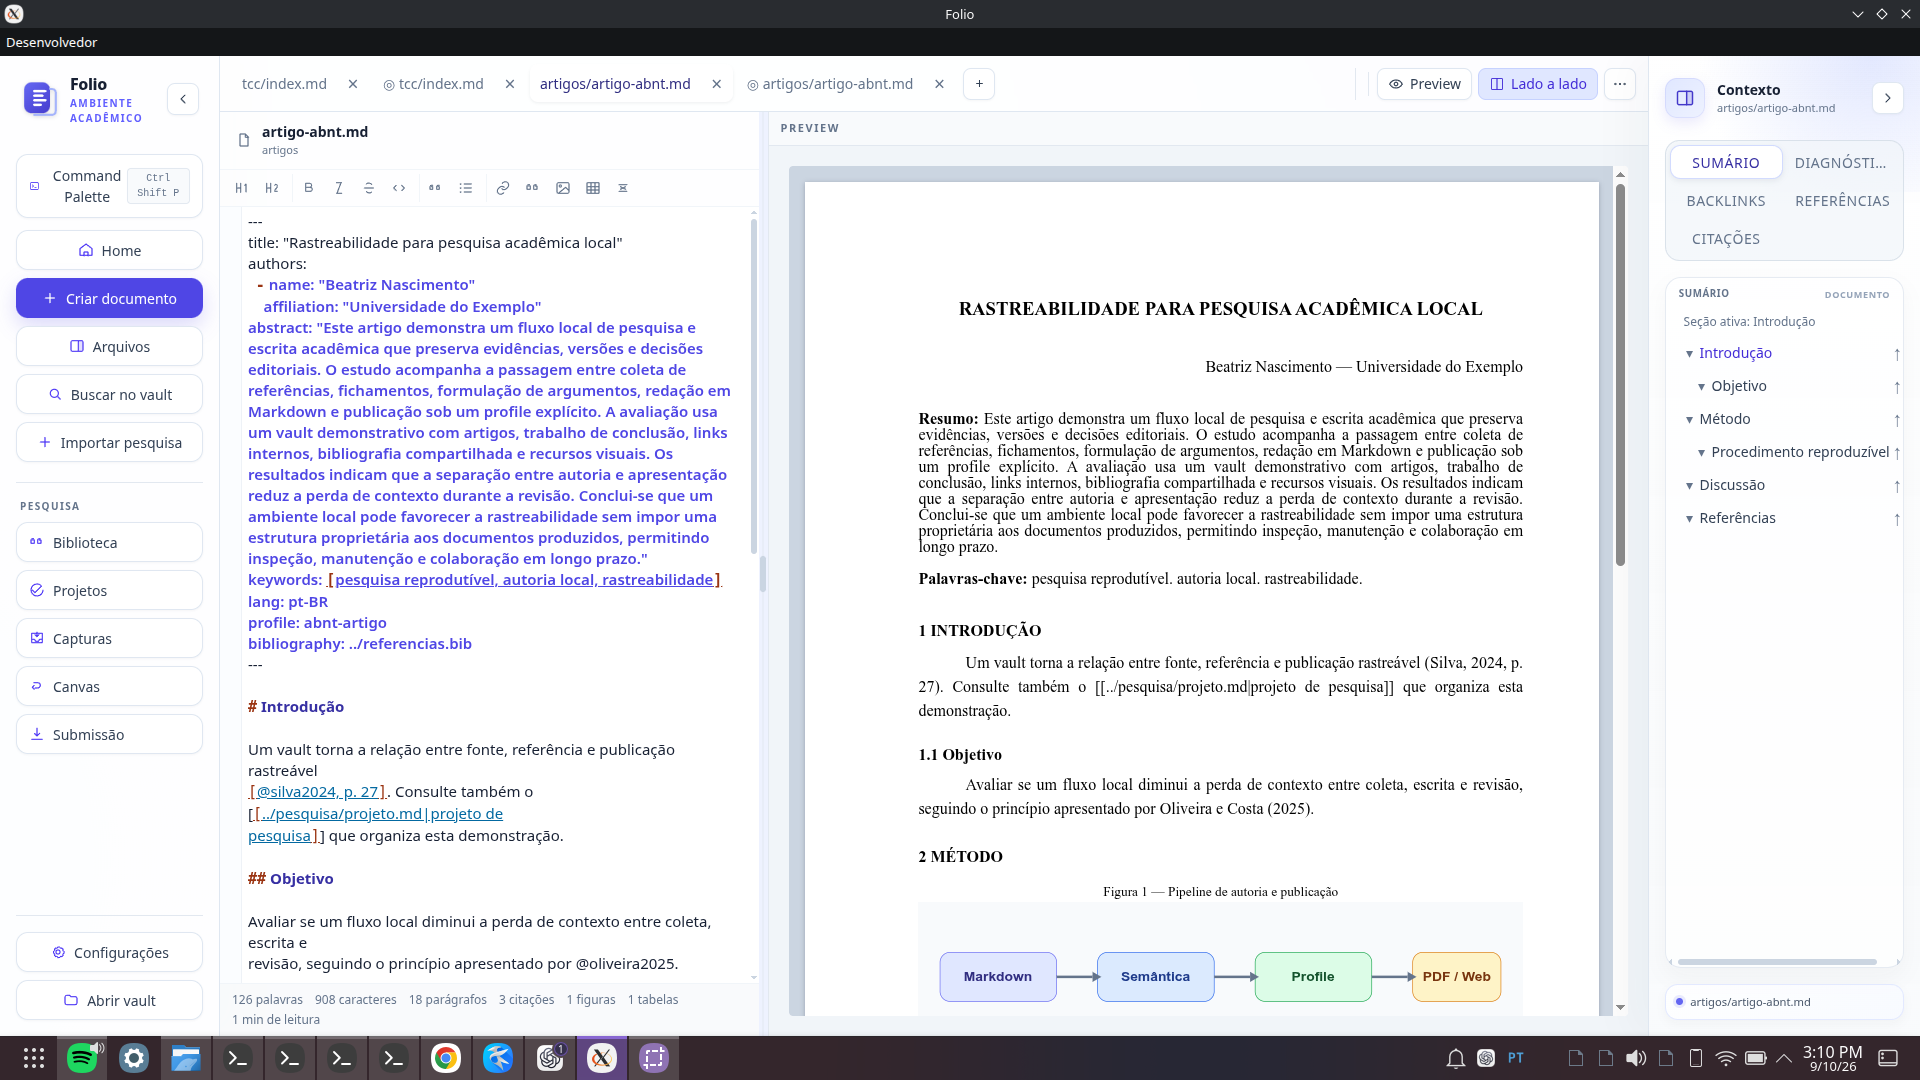
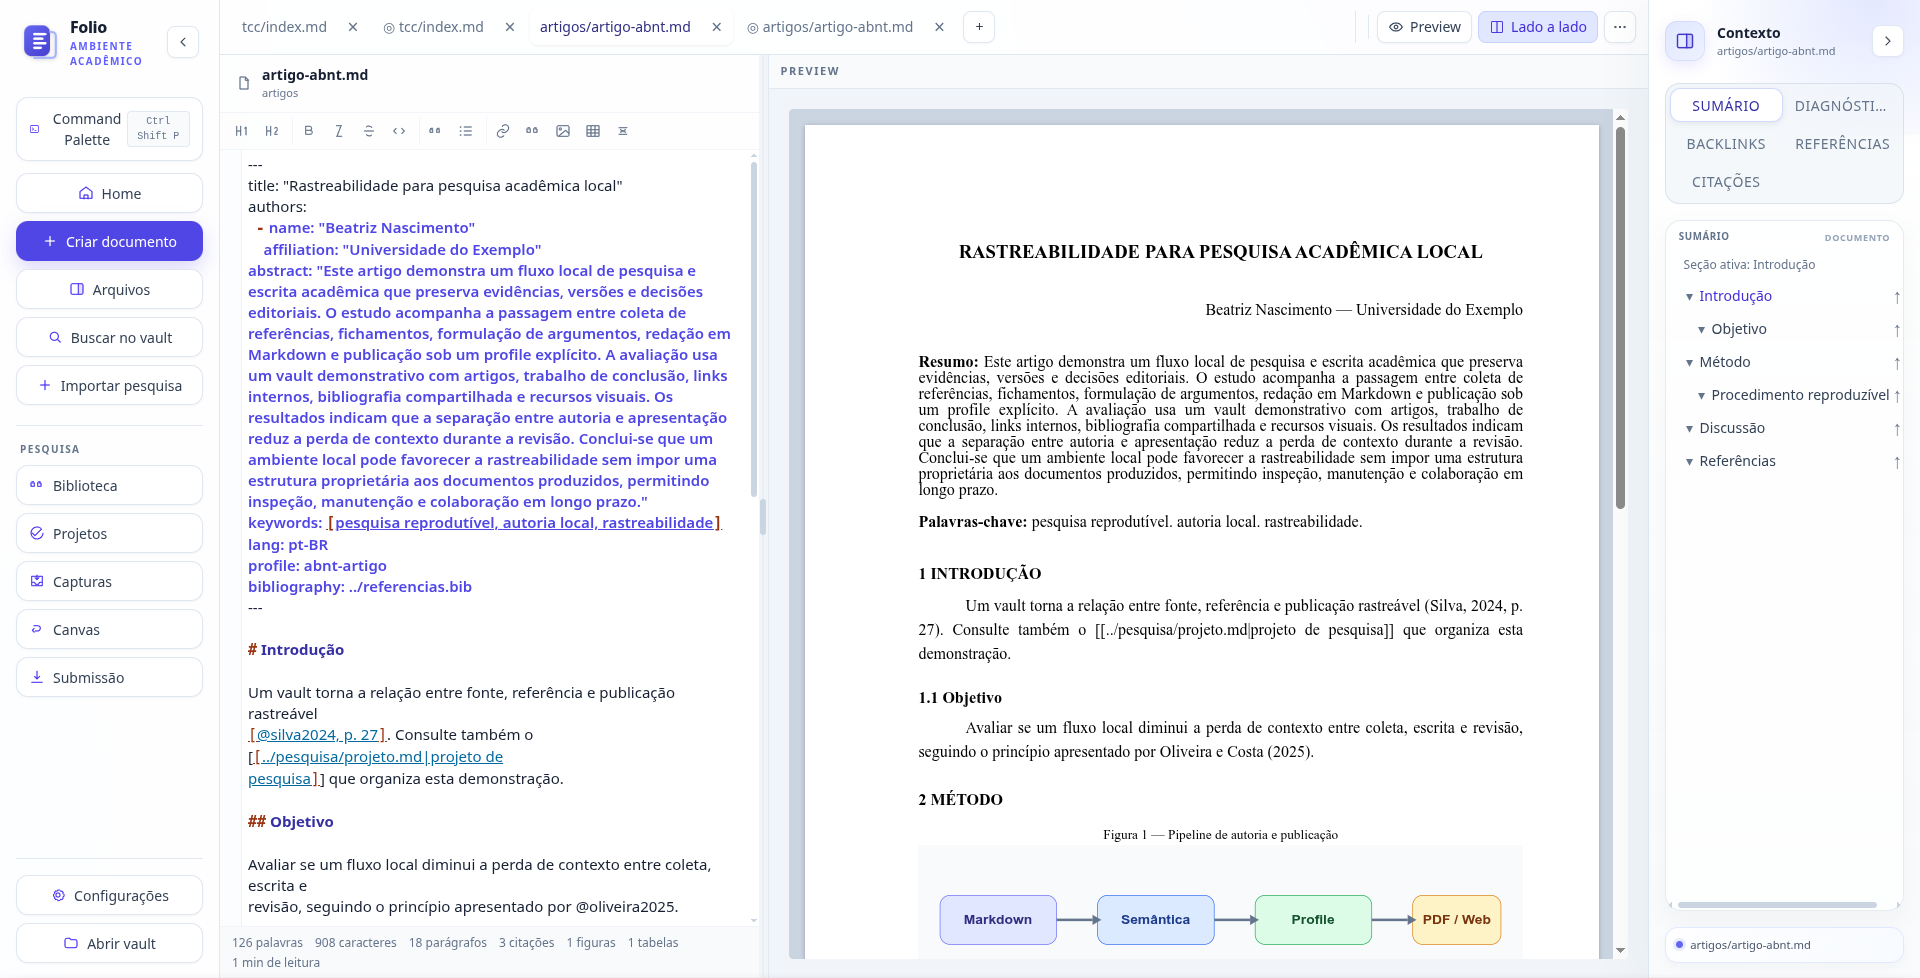
First commit

diff --git a/index.html b/index.html
@@ -1,30 +1,21 @@
 <!doctype html>
 <html lang="pt-BR">
-  <head>
-    <meta charset="UTF-8" />
-    <meta name="viewport" content="width=device-width, initial-scale=1.0" />
-    <meta name="description" content="Folio é o espaço local para escrever, pesquisar e publicar trabalhos acadêmicos." />
-    <title>Folio — pesquisa acadêmica, do rascunho à entrega</title>
-    <style>
-      :root { color-scheme: dark; font-family: Inter, ui-sans-serif, system-ui, sans-serif; }
-      * { box-sizing: border-box; } body { margin: 0; color: #e2e8f0; background: #0f172a; }
-      main { max-width: 1120px; margin: auto; padding: 28px 24px 72px; } nav { display:flex; justify-content:space-between; align-items:center; }
-      .brand { font-weight:800; letter-spacing:-.05em; font-size:1.45rem; } .brand span { color:#a5b4fc; }
-      a { color: inherit; } .github { border:1px solid #475569; border-radius:9px; padding:9px 13px; text-decoration:none; font-size:.9rem; }
-      .hero { padding:110px 0 80px; max-width:800px; background:radial-gradient(circle at 70% 40%,#3730a340,transparent 38%); }
-      .eyebrow { color:#a5b4fc; font-size:.76rem; font-weight:800; letter-spacing:.15em; } h1 { font-size:clamp(3rem,8vw,6.6rem); line-height:.93; letter-spacing:-.075em; margin:18px 0 25px; } p { color:#cbd5e1; line-height:1.65; font-size:1.1rem; }
-      .cta { display:inline-block; margin-top:20px; border-radius:10px; padding:13px 17px; color:#fff; background:#4f46e5; font-weight:700; text-decoration:none; }
-      .grid { display:grid; grid-template-columns:repeat(3,1fr); gap:16px; margin-top:35px; } article { border:1px solid #334155; border-radius:16px; padding:22px; background:#172033; } h2 { font-size:1.1rem; margin:0 0 8px; } article p { margin:0; font-size:.95rem; }
-      .showcase { margin-top:88px; } .showcase h2 { font-size:1.7rem; } .showcase > p { margin:8px 0 22px; }.screens { display:grid; grid-template-columns:repeat(2,minmax(0,1fr)); gap:18px; }.screen { margin:0; overflow:hidden; border:1px solid #334155; border-radius:16px; background:#172033; }.screen:first-child { grid-column:1 / -1; }.screen img { display:block; width:100%; height:auto; }.screen figcaption { padding:11px 14px; color:#94a3b8; font-size:.86rem; }
-      footer { margin-top:72px; padding-top:20px; border-top:1px solid #334155; color:#94a3b8; font-size:.85rem; }
-      @media (max-width:700px) { .hero{padding:80px 0 55px}.grid,.screens{grid-template-columns:1fr}.screen:first-child{grid-column:auto} }
-    </style>
-  </head>
-  <body><main>
-    <nav><div class="brand">fo<span>lio</span></div><a class="github" href="https://github.com/goldenluke/folio">Ver no GitHub</a></nav>
-    <section class="hero"><div class="eyebrow">PESQUISA ACADÊMICA, LOCAL-FIRST</div><h1>Do rascunho à entrega.</h1><p>Folio reúne escrita em Markdown, referências, anotações, revisão e publicação em um espaço de trabalho acadêmico que permanece seu.</p><a class="cta" href="https://github.com/goldenluke/folio">Explorar o projeto →</a></section>
-    <section class="grid"><article><h2>Escreva com contexto</h2><p>Editor, estrutura acadêmica, citações e diagnóstico trabalham no mesmo documento.</p></article><article><h2>Pesquise sem dispersão</h2><p>Biblioteca, PDFs, capturas, projetos e canvas organizam a investigação.</p></article><article><h2>Publique com confiança</h2><p>Prévia, validação ABNT, PDF, DOCX e fluxos de submissão fazem parte do percurso.</p></article></section>
-    <section class="showcase"><h2>O espaço de trabalho</h2><p>Um lugar para continuar escrevendo, organizar a pesquisa e revisar o que falta.</p><div class="screens"><figure class="screen"><img src="landing/Screenshot_20260910_150703.png" alt="Tela inicial do Folio" /><figcaption>Visão geral do workspace e continuidade do trabalho.</figcaption></figure><figure class="screen"><img src="landing/Screenshot_20260910_150752.png" alt="Biblioteca de referências do Folio" /><figcaption>Biblioteca, referências e pesquisa no mesmo workspace.</figcaption></figure><figure class="screen"><img src="landing/Screenshot_20260910_151014.png" alt="Editor acadêmico do Folio" /><figcaption>Editor com estrutura e ferramentas de escrita.</figcaption></figure></div></section>
-    <footer>Folio · software para produção acadêmica.</footer>
-  </main></body>
-</html>
+<head>
+  <meta charset="UTF-8" /><meta name="viewport" content="width=device-width, initial-scale=1.0" />
+  <meta name="description" content="Folio reúne pesquisa, escrita e publicação acadêmica em um workspace local-first." />
+  <title>Folio — pesquisa, escrita e publicação acadêmica</title>
+  <script src="https://cdn.tailwindcss.com"></script>
+  <script>tailwind.config={theme:{extend:{colors:{ink:'#10142a',indigo:{450:'#6254e7'}}}}}</script>
+</head>
+<body class="bg-slate-950 text-slate-100 antialiased selection:bg-indigo-400 selection:text-slate-950">
+  <div class="absolute inset-x-0 top-0 -z-10 h-[42rem] bg-[radial-gradient(circle_at_72%_10%,rgba(99,102,241,.36),transparent_27rem),radial-gradient(circle_at_15%_12%,rgba(56,189,248,.14),transparent_20rem)]"></div>
+  <main class="mx-auto max-w-7xl px-6 pb-24 lg:px-8">
+    <nav class="flex items-center justify-between py-7"><a class="flex items-center gap-2.5 text-2xl font-black tracking-[-.08em]" href="#top"><img src="apps/desktop/build/icons/folio.svg" alt="" class="h-8 w-8 rounded-lg" />fo<span class="text-indigo-300">lio</span></a><div class="hidden gap-6 text-sm text-slate-300 md:flex"><a href="#produto" class="hover:text-white">Produto</a><a href="#fluxo" class="hover:text-white">Fluxo</a><a href="#local" class="hover:text-white">Local-first</a></div><a href="https://github.com/goldenluke/folio" class="rounded-full border border-slate-700 px-4 py-2 text-sm font-semibold hover:border-indigo-300 hover:text-indigo-200">Ver no GitHub</a></nav>
+    <section id="top" class="grid items-center gap-12 py-20 lg:grid-cols-[1.08fr_.92fr] lg:py-28"><div><p class="text-xs font-bold tracking-[.22em] text-indigo-300">WORKSPACE ACADÊMICO LOCAL-FIRST</p><h1 class="mt-5 max-w-4xl text-5xl font-black leading-[.92] tracking-[-.075em] text-white sm:text-7xl">Pesquisa, escrita e publicação no mesmo lugar.</h1><p class="mt-7 max-w-2xl text-lg leading-8 text-slate-300">Leia artigos, organize referências, anote PDFs, conecte evidências, escreva em Markdown e prepare a entrega sem fragmentar o projeto entre ferramentas desconectadas.</p><div class="mt-9 flex flex-wrap gap-3"><a href="https://github.com/goldenluke/folio" class="rounded-xl bg-indigo-400 px-5 py-3 font-bold text-slate-950 transition hover:bg-indigo-300">Acompanhar no GitHub</a><a href="#produto" class="rounded-xl border border-slate-700 px-5 py-3 font-bold text-white hover:bg-slate-900">Conhecer os recursos</a></div><p class="mt-6 text-sm text-slate-400">Seus arquivos continuam seus: Markdown, PDFs e referências portáveis.</p></div><button type="button" data-lightbox="landing/Screenshot_20260910_150703.png" data-alt="Tela inicial do Folio" class="group overflow-hidden rounded-2xl border border-indigo-300/25 bg-slate-900/70 p-2 text-left shadow-2xl shadow-indigo-950/50"><img src="landing/Screenshot_20260910_150703.png" alt="Tela inicial do Folio" class="w-full rounded-xl transition duration-300 group-hover:scale-[1.015]" /><span class="block px-3 pb-2 pt-4 text-sm font-semibold text-indigo-200">Workspace para continuar o trabalho <span class="float-right text-slate-400">Ampliar</span></span></button></section>
+    <section id="fluxo" class="rounded-3xl border border-slate-800 bg-slate-900/60 p-7 sm:p-10"><p class="text-xs font-bold tracking-[.2em] text-indigo-300">UM FLUXO CONTÍNUO</p><div class="mt-4 grid gap-8 lg:grid-cols-[.9fr_1.1fr]"><div><h2 class="text-3xl font-bold tracking-[-.045em]">O trabalho acadêmico não acontece em uma única ferramenta.</h2><p class="mt-4 leading-7 text-slate-300">O Folio aproxima leitura, biblioteca, texto, revisão e entrega. Em vez de esconder seus dados em uma plataforma, trabalha sobre o workspace local.</p></div><div class="flex flex-wrap content-center gap-2 text-sm font-bold"> <span class="rounded-full bg-indigo-400 px-4 py-2 text-slate-950">Ler</span><span class="rounded-full border border-slate-700 px-4 py-2">Anotar</span><span class="rounded-full border border-slate-700 px-4 py-2">Relacionar</span><span class="rounded-full border border-slate-700 px-4 py-2">Citar</span><span class="rounded-full border border-slate-700 px-4 py-2">Escrever</span><span class="rounded-full border border-slate-700 px-4 py-2">Validar</span><span class="rounded-full border border-slate-700 px-4 py-2">Publicar</span></div></div></section>
+    <section id="produto" class="py-24"><div class="max-w-3xl"><p class="text-xs font-bold tracking-[.2em] text-indigo-300">O PRODUTO</p><h2 class="mt-4 text-4xl font-bold tracking-[-.05em] sm:text-5xl">Um workspace para o projeto inteiro, não só para o documento.</h2></div><div class="mt-12 grid gap-4 md:grid-cols-2 lg:grid-cols-3"><article class="rounded-2xl border border-slate-800 bg-slate-900 p-6"><h3 class="font-bold text-white">Escrita estruturada</h3><p class="mt-3 text-sm leading-6 text-slate-300">Markdown para autoria, com estrutura de documento, citações, referências cruzadas, preview e diagnósticos próximos do editor.</p></article><article class="rounded-2xl border border-slate-800 bg-slate-900 p-6"><h3 class="font-bold text-white">Biblioteca e anexos</h3><p class="mt-3 text-sm leading-6 text-slate-300">CSL-JSON, DOI, BibTeX, RIS e capturas web. Uma referência pode manter PDFs, versões, datasets, links e snapshots.</p></article><article class="rounded-2xl border border-slate-800 bg-slate-900 p-6"><h3 class="font-bold text-white">Leitura utilizável</h3><p class="mt-3 text-sm leading-6 text-slate-300">PDFs, highlights, comentários e anotações que podem virar literature notes e sínteses ligadas à fonte.</p></article><article class="rounded-2xl border border-slate-800 bg-slate-900 p-6"><h3 class="font-bold text-white">Projetos e canvas</h3><p class="mt-3 text-sm leading-6 text-slate-300">Agrupe documentos e referências sem mover arquivos. Use o canvas para argumentos, evidências e contrapontos antes de escrever.</p></article><article class="rounded-2xl border border-slate-800 bg-slate-900 p-6"><h3 class="font-bold text-white">Revisão antes da entrega</h3><p class="mt-3 text-sm leading-6 text-slate-300">Problemas, histórico, snapshots e preflight ajudam a localizar citações, metadados e requisitos pendentes.</p></article><article class="rounded-2xl border border-slate-800 bg-slate-900 p-6"><h3 class="font-bold text-white">Publicação</h3><p class="mt-3 text-sm leading-6 text-slate-300">A mesma estrutura pode seguir para PDF, DOCX e HTML, com profiles de publicação separados do conteúdo autoral.</p></article></div></section>
+    <section class="grid gap-8 border-y border-slate-800 py-20 lg:grid-cols-2"><div><p class="text-xs font-bold tracking-[.2em] text-indigo-300">VEJA O FOLIO</p><h2 class="mt-4 text-4xl font-bold tracking-[-.05em]">Contexto onde ele importa.</h2><p class="mt-5 max-w-lg leading-7 text-slate-300">A biblioteca, o editor e o acompanhamento do trabalho são partes do mesmo workspace.</p></div><div class="grid gap-5"><button data-lightbox="landing/Screenshot_20260910_150752.png" data-alt="Biblioteca do Folio" class="group overflow-hidden rounded-2xl border border-slate-800 text-left"><img src="landing/Screenshot_20260910_150752.png" alt="Biblioteca do Folio" class="transition duration-300 group-hover:scale-[1.02]" /><span class="block bg-slate-900 px-4 py-3 text-sm font-semibold">Referências e pesquisa <span class="float-right text-indigo-300">Ampliar</span></span></button><button data-lightbox="landing/Screenshot_20260910_151014.png" data-alt="Editor acadêmico do Folio" class="group overflow-hidden rounded-2xl border border-slate-800 text-left"><img src="landing/Screenshot_20260910_151014.png" alt="Editor acadêmico do Folio" class="transition duration-300 group-hover:scale-[1.02]" /><span class="block bg-slate-900 px-4 py-3 text-sm font-semibold">Editor e ferramentas de escrita <span class="float-right text-indigo-300">Ampliar</span></span></button></div></section>
+    <section id="local" class="py-24"><div class="rounded-3xl bg-gradient-to-br from-indigo-500 to-violet-700 p-8 sm:p-12"><p class="text-xs font-bold tracking-[.2em] text-indigo-100">LOCAL-FIRST DE VERDADE</p><h2 class="mt-4 max-w-3xl text-4xl font-black tracking-[-.06em] text-white sm:text-6xl">O software organiza o trabalho. Não passa a ser dono dele.</h2><p class="mt-6 max-w-2xl text-lg leading-8 text-indigo-50">Os textos são arquivos reais; PDFs continuam acessíveis; referências continuam portáveis. SQLite acelera busca e navegação, mas o índice pode ser reconstruído.</p></div></section>
+    <footer class="flex flex-wrap items-center justify-between gap-4 border-t border-slate-800 pt-8 text-sm text-slate-400"><span>Folio · pesquisa, escrita e publicação acadêmica.</span><a href="https://github.com/goldenluke/folio" class="font-semibold text-indigo-300 hover:text-white">github.com/goldenluke/folio</a></footer>
+  </main><dialog id="lightbox" class="m-auto max-h-[94vh] max-w-[94vw] rounded-2xl bg-slate-950 p-3 backdrop:bg-slate-950/85"><button id="close-lightbox" class="absolute right-5 top-5 grid h-10 w-10 place-items-center rounded-full bg-slate-900 text-2xl text-white">×</button><img id="lightbox-image" class="max-h-[88vh] rounded-xl" alt="" /></dialog><script>const d=document.getElementById('lightbox'),i=document.getElementById('lightbox-image');document.querySelectorAll('[data-lightbox]').forEach(b=>b.onclick=()=>{i.src=b.dataset.lightbox;i.alt=b.dataset.alt;d.showModal()});document.getElementById('close-lightbox').onclick=()=>d.close();d.onclick=e=>{if(e.target===d)d.close()};</script>
+</body></html>
